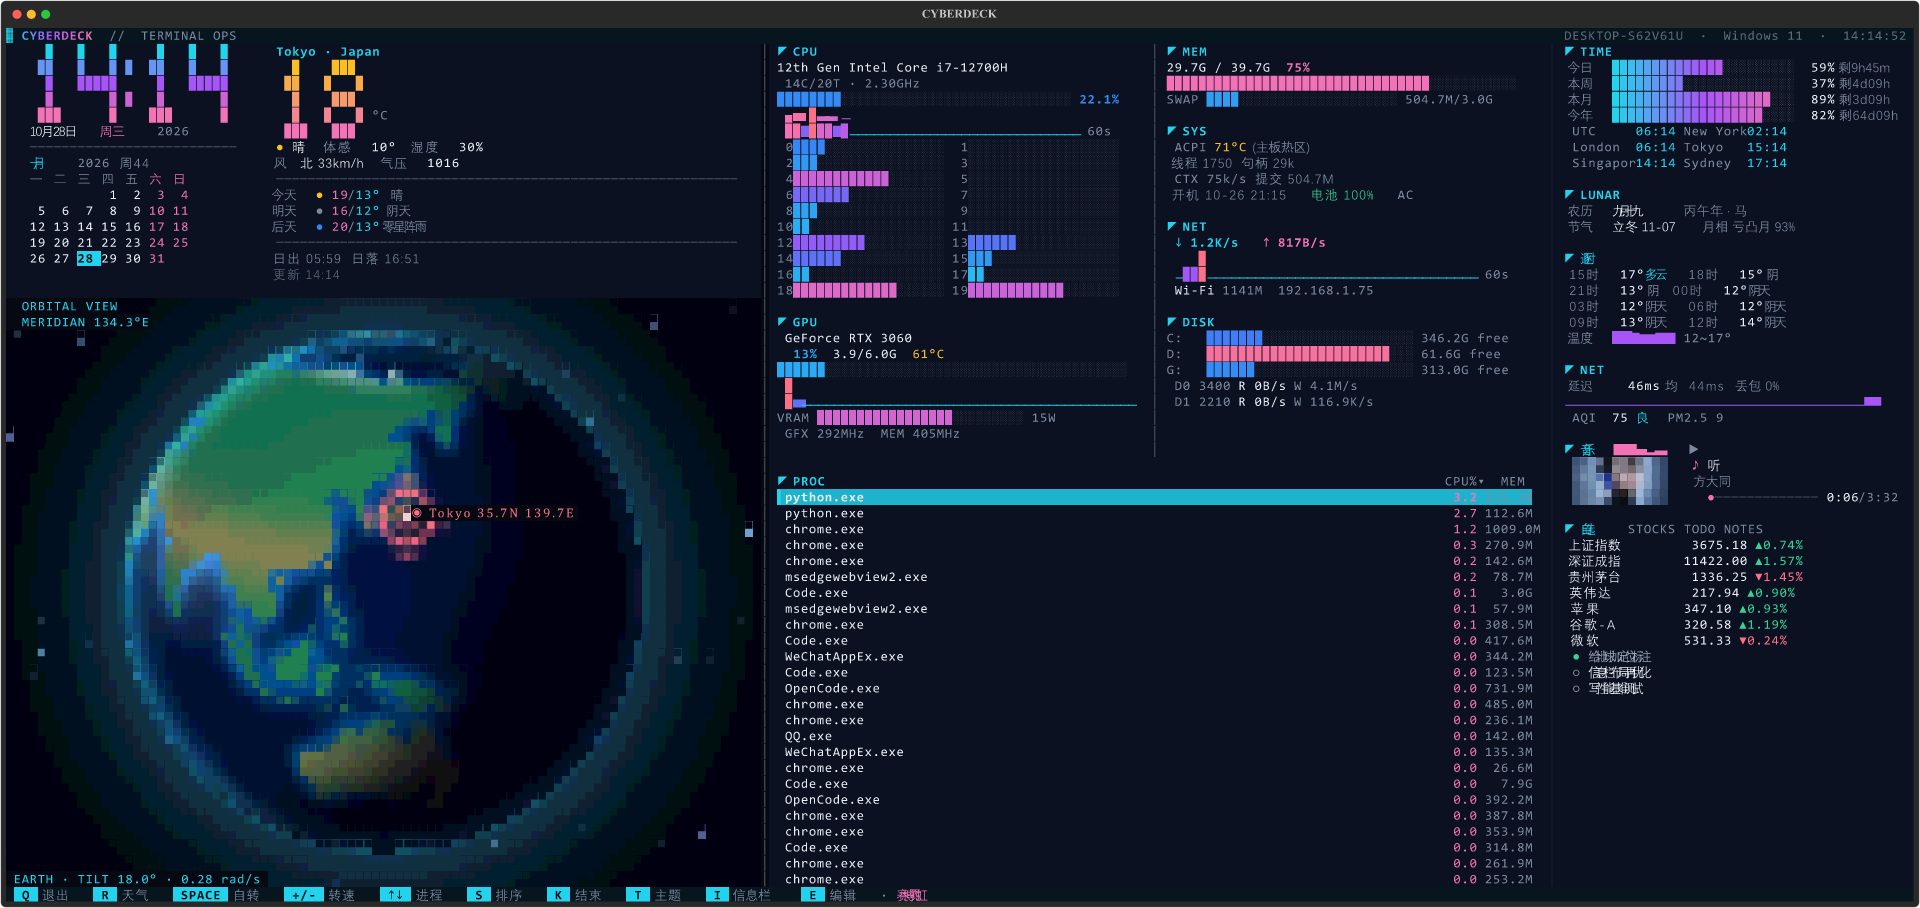
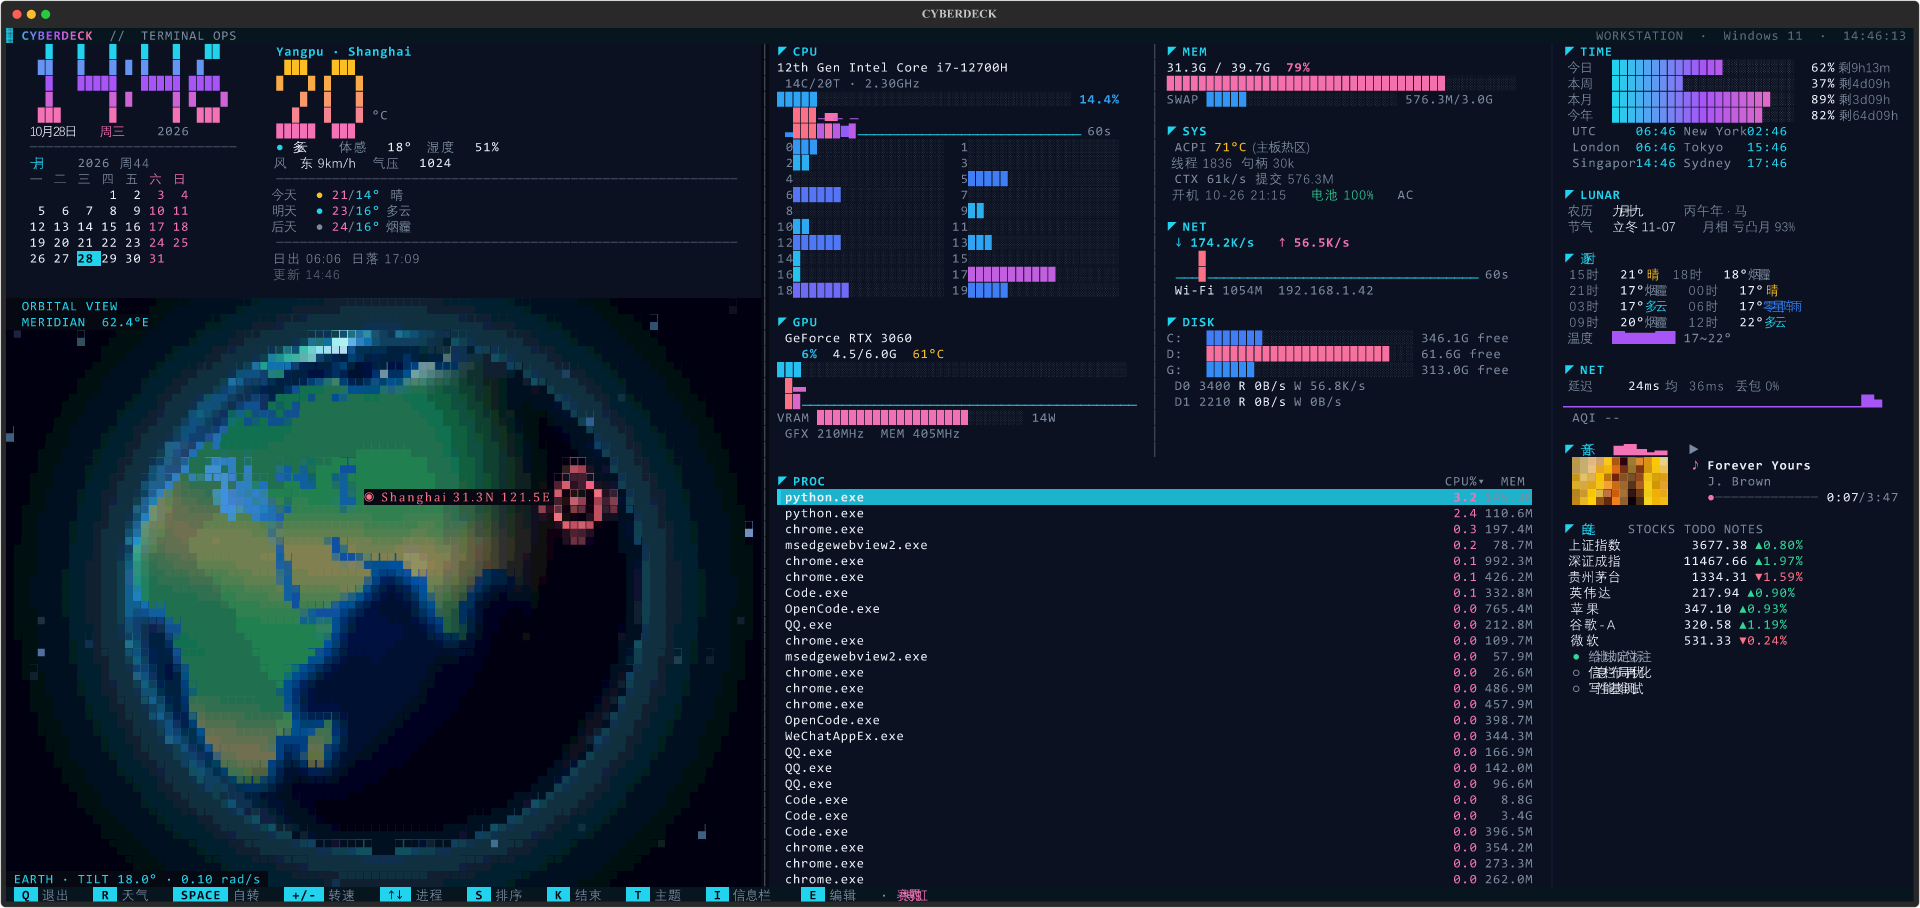
fix: derive the city from the OS timezone, not the exit IP
A VPN makes IP geolocation lie: the weather panel showed Tokyo and the globe
pinned Tokyo while the machine was nowhere near it. The OS timezone still
reflects where the machine is, so China Standard Time now yields Shanghai,
Asia/Shanghai the same, and so on. Explicit --city / config location still win.

Also: the globe re-reads its location every 5s instead of 30s, so the pin
shows up right after the first weather fetch; the pin prefers the requested
city over wttr's sub-district name; the derived city is no longer written to
config (only an explicit one is), so travelling does not pin you to the old
city; default spin speed drops to 0.10 rad/s with 0.05 steps.

docs/preview.png is regenerated through tools/make_preview.py: the previous
build had leaked the real hostname and LAN IP.

diff --git a/src/cyberdeck/geo.py b/src/cyberdeck/geo.py
@@ -1,0 +1,89 @@
+"""Guess the local city from the OS timezone.
+
+IP geolocation is useless behind a VPN: a Tokyo exit makes wttr.in report Tokyo
+weather and pins the globe in Tokyo. The OS timezone still reflects where the
+machine actually is, so it makes a much better default.
+"""
+
+from __future__ import annotations
+
+import os
+import sys
+from pathlib import Path
+
+# Windows timezone id -> a city wttr.in understands
+WINDOWS_CITIES: dict[str, str] = {
+    "China Standard Time": "Shanghai",
+    "Taipei Standard Time": "Taipei",
+    "Tokyo Standard Time": "Tokyo",
+    "Korea Standard Time": "Seoul",
+    "Singapore Standard Time": "Singapore",
+    "Hong Kong Standard Time": "Hong Kong",
+    "W. Europe Standard Time": "Berlin",
+    "Central Europe Standard Time": "Budapest",
+    "Romance Standard Time": "Paris",
+    "GMT Standard Time": "London",
+    "Eastern Standard Time": "New York",
+    "Central Standard Time": "Chicago",
+    "Mountain Standard Time": "Denver",
+    "Pacific Standard Time": "Los Angeles",
+    "AUS Eastern Standard Time": "Sydney",
+    "India Standard Time": "Mumbai",
+    "Russian Standard Time": "Moscow",
+    "Arabian Standard Time": "Dubai",
+    "SE Asia Standard Time": "Bangkok",
+    "Malay Peninsula Standard Time": "Kuala Lumpur",
+    "Atlantic Standard Time": "Halifax",
+}
+
+
+def city_for_windows_tz(name: str | None) -> str | None:
+    """Map a Windows timezone id ("China Standard Time") to a city name."""
+    return WINDOWS_CITIES.get(name) if name else None
+
+
+def city_for_iana(key: str | None) -> str | None:
+    """Map an IANA zone ("Asia/Shanghai") to its city ("Shanghai")."""
+    if not key or "/" not in key:
+        return None
+    tail = key.rstrip("/").rsplit("/", 1)[1]
+    if not tail or tail[0].isdigit() or tail.startswith(("GMT", "UTC")):
+        return None
+    return tail.replace("_", " ")
+
+
+def _windows_tz() -> str | None:
+    try:
+        import winreg
+    except ImportError:  # pragma: no cover - non-Windows
+        return None
+    try:
+        with winreg.OpenKey(
+            winreg.HKEY_LOCAL_MACHINE,
+            r"SYSTEM\CurrentControlSet\Control\TimeZoneInformation",
+        ) as key:
+            return str(winreg.QueryValueEx(key, "TimeZoneKeyName")[0])
+    except OSError:
+        return None
+
+
+def _iana_key() -> str | None:
+    env = os.environ.get("TZ")
+    if env:
+        return env.lstrip(":")
+    link = Path("/etc/localtime")
+    try:
+        if link.is_symlink():
+            target = os.readlink(link)
+            if "zoneinfo/" in target:
+                return target.split("zoneinfo/", 1)[1]
+    except OSError:
+        pass
+    return None
+
+
+def system_city() -> str | None:
+    """City implied by the OS timezone, or None when it cannot be determined."""
+    if sys.platform == "win32":
+        return city_for_windows_tz(_windows_tz())
+    return city_for_iana(_iana_key())

diff --git a/src/cyberdeck/app.py b/src/cyberdeck/app.py
@@ -21,6 +21,7 @@ from . import __version__, storage, theme
 from .clock import ClockPanel
 from .editor import EditorScreen
 from .extras import InfoPanel, parse_symbols
+from .geo import system_city
 from .globe import Globe
 from .system import SystemPanel
 from .weather import WeatherPanel
@@ -168,7 +169,10 @@ class CyberDeck(App):
         self.config = storage.load_json("config.json") or {}
         pinned = self.config.get("location")
         pinned_city = pinned.get("name") if isinstance(pinned, dict) else None
-        self.city = city or self.config.get("city") or pinned_city or None
+        # --city > config city > pinned coordinates > OS timezone (IP guessing lies behind a VPN)
+        chosen = city or self.config.get("city") or pinned_city
+        self.city = chosen or system_city() or None
+        self._city_pinned = bool(chosen)
         self.theme_index = theme.palette_index(self.config.get("theme"))
         theme.set_palette(self.theme_index)
 
@@ -233,7 +237,9 @@ class CyberDeck(App):
         # merge into what is on disk: a hand-edited "location" must survive a theme switch
         fresh = storage.load_json("config.json") or {}
         fresh.update(self.config)
-        fresh.update({"theme": theme.P.name, "city": self.city})
+        fresh["theme"] = theme.P.name
+        if self._city_pinned:
+            fresh["city"] = self.city
         self.config = fresh
         storage.save_json("config.json", fresh)
 

diff --git a/src/cyberdeck/globe.py b/src/cyberdeck/globe.py
@@ -375,7 +375,7 @@ class Globe(Widget):
         super().__init__(**kwargs)
         self.engine = GlobeEngine()
         self.yaw = -1.9
-        self.speed = 0.28
+        self.speed = 0.10
         self.paused = False
         self.marker: tuple[float, float, str] | None = None
         self._last = time.perf_counter()
@@ -383,7 +383,9 @@ class Globe(Widget):
 
     def on_mount(self) -> None:
         self.set_interval(1 / 24, self._tick)
-        self.set_interval(30, self._refresh_location)
+        # cheap (two small json reads): retry often so the pin appears as soon as
+        # the first weather fetch lands, instead of waiting for the next slow tick
+        self.set_interval(5.0, self._refresh_location)
         self._refresh_location()
 
     def _refresh_location(self) -> None:
@@ -415,10 +417,10 @@ class Globe(Widget):
         self.paused = not self.paused
 
     def action_faster(self) -> None:
-        self.speed = min(2.0, self.speed + 0.12)
+        self.speed = min(1.2, self.speed + 0.05)
 
     def action_slower(self) -> None:
-        self.speed = max(0.0, self.speed - 0.12)
+        self.speed = max(0.0, self.speed - 0.05)
 
     def render(self) -> Text:
         w, h = self.size.width, self.size.height
@@ -480,6 +482,7 @@ class Globe(Widget):
                                labels=labels)
         self._frame_ms = (time.perf_counter() - start) * 1000
         return result
+
 
 
 

diff --git a/tests/test_core.py b/tests/test_core.py
@@ -294,6 +294,20 @@ def test_stale_quotes_are_labelled():
     assert "m前" not in panel.build(43, 30).plain
 
 
+def test_system_city_mapping():
+    from cyberdeck.geo import city_for_iana, city_for_windows_tz
+
+    assert city_for_windows_tz("China Standard Time") == "Shanghai"
+    assert city_for_windows_tz("Tokyo Standard Time") == "Tokyo"
+    assert city_for_windows_tz("Nowhere Standard Time") is None
+    assert city_for_windows_tz(None) is None
+    assert city_for_iana("Asia/Shanghai") == "Shanghai"
+    assert city_for_iana("America/Argentina/Buenos_Aires") == "Buenos Aires"
+    assert city_for_iana("Etc/GMT+8") is None
+    assert city_for_iana("UTC") is None
+    assert city_for_iana(None) is None
+
+
 def test_globe_marker():
     import math
 

diff --git a/src/cyberdeck/extras.py b/src/cyberdeck/extras.py
@@ -296,7 +296,8 @@ def _location() -> tuple[float, float, str] | None:
         if isinstance(lon, list):
             lon = lon[0]["value"]
         name = area.get("areaName", [{"value": ""}])[0].get("value", "")
-        city = str(name)
+        # prefer the city the user asked wttr.in for over the nearest sub-district
+        city = str(blob.get("city") or name or "")
         if pinned:
             return pinned[0], pinned[1], pinned[2] or city
         return float(lat), float(lon), city

diff --git a/README.md b/README.md
@@ -35,7 +35,7 @@ uv run cyberdeck
   如果 iTerm2 里条形图错位，关闭 Profiles → Text 里的 “Treat ambiguous-width characters as double width”。
 - **窗口**：建议 ≥ 110 列 × 30 行；≥ 210 列时右侧会出现信息栏。面板会随高度自动切换布局。
 
-固定城市（默认按出口 IP 自动定位）：
+指定城市（默认按**系统时区**推断，挂 VPN 也不会跑到 VPN 出口城市）：
 
 ```bash
 uv run cyberdeck --city Hangzhou
@@ -51,7 +51,7 @@ uv run cyberdeck
 
 或直接双击 / 运行 `.\run.ps1`。
 
-固定城市：
+固定城市（默认同上，按系统时区推断）：
 
 ```powershell
 uv run cyberdeck --city Hangzhou
@@ -116,8 +116,12 @@ NVIDIA 显卡走 `nvidia-smi`；配置走 `$XDG_CONFIG_HOME/cyberdeck` 或 `~/.c
 
 坐标来源按优先级：
 
-1. `config.json` 里的 `location` —— 最准，常驻看板建议直接写死
-2. wttr.in 返回的最近气象站 —— 自动，但可能落在几十公里外的城市
+1. `config.json` 里的 `location` —— 精确坐标，常驻看板建议直接写死
+2. **系统时区**推断的城市（`China Standard Time` → Shanghai）→ wttr.in 该城市的气象站坐标
+
+**为什么不用 IP 定位**：开着 VPN 时出口 IP 在东京，IP 地理库就把城市判成东京，天气和地球红点会一起错。系统时区跟着机器走，不受代理影响，所以默认从时区推城市。
+
+> 旧版本可能已经把 `"city": "Tokyo"` 写进过 `config.json`，删掉那一行（或改成你自己的城市）再启动。
 
 ```json
 {
